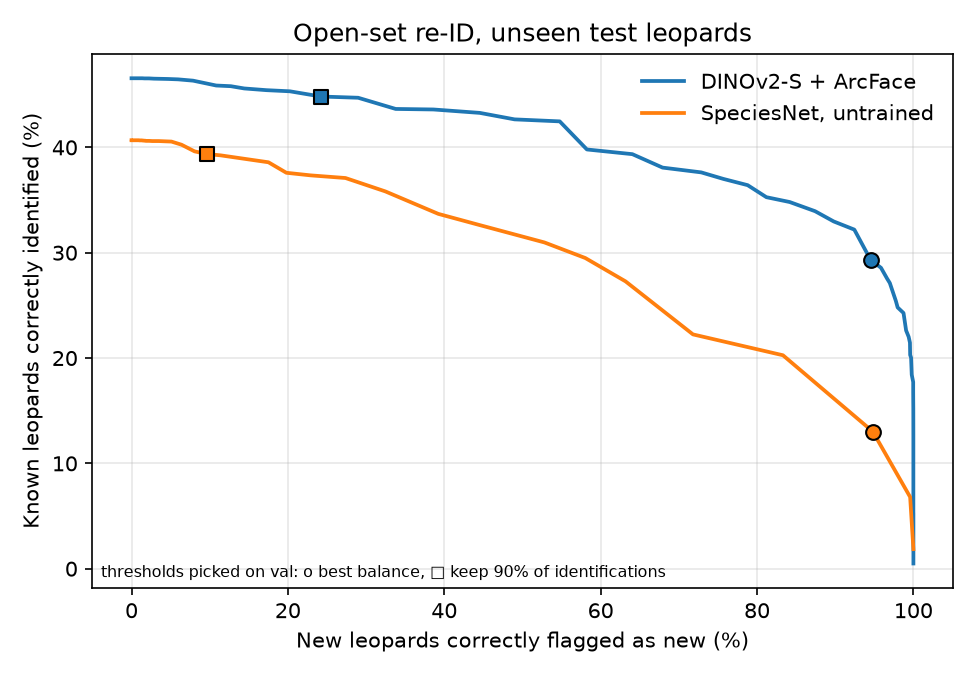
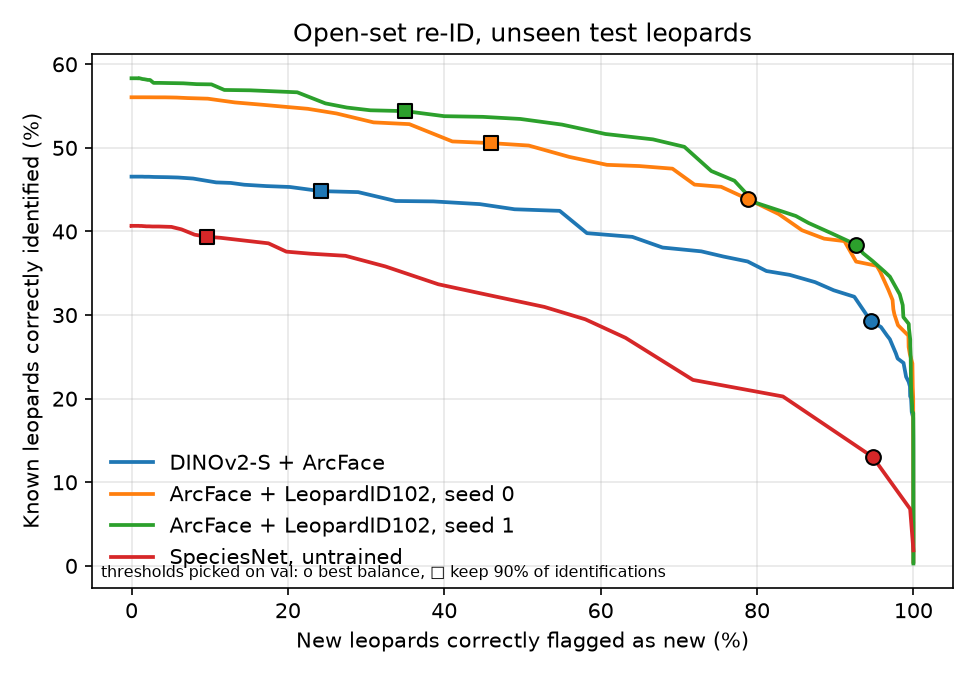
open-set check with the leopardid102-trained models
same 20 draws for every model. with the extra training leopards, known
leopards identified with no "new" option goes 46.6% -> 56.1/58.3% and
the whole trade-off curve moves up, but auroc known-vs-new barely moves
(0.778 -> 0.798/0.800): better ranking, not better "i don't know".
thresholds still land differently per seed.

diff --git a/scripts/15_open_set.py b/scripts/15_open_set.py
@@ -13,9 +13,10 @@ matched correctly and confidently. The threshold that best balances the two
 (ghats.reid.open_set_rates), and the strictest one that keeps 90% of the correct
 identifications, are picked on val and applied unchanged to test.
 
-Models: the ArcFace fine-tune from scripts/14_train_reid.py and, for comparison, the
-best untrained baseline (SpeciesNet features cached by 13_reid_baseline.py). Writes
-reports/phase3/open_set.{md,csv,png}.
+Models: the ArcFace fine-tunes from scripts/14_train_reid.py (the original, and the two
+seeds trained with LeopardID102 leopards added, where present) and, for comparison, the
+best untrained baseline (SpeciesNet features cached by 13_reid_baseline.py). All models
+see the same draws. Writes reports/phase3/open_set.{md,csv,png}.
 """
 
 from __future__ import annotations
@@ -36,6 +37,12 @@ from ghats.config import load_config
 from ghats.reid import l2_normalise, open_set_queries, open_set_rates
 
 KEEP = 0.9  # share of closed-set identifications the conservative threshold keeps
+MODELS = {  # label -> checkpoint; None = SpeciesNet features from the baseline cache
+    "DINOv2-S + ArcFace": "outputs/phase3/reid/best.pt",
+    "ArcFace + LeopardID102, seed 0": "outputs/phase3/reid_lp102_s0/best.pt",
+    "ArcFace + LeopardID102, seed 1": "outputs/phase3/reid_lp102_s1/best.pt",
+    "SpeciesNet, untrained": None,
+}
 
 
 def simulate(emb: np.ndarray, crops: pd.DataFrame, draws: int, seed: int) -> pd.DataFrame:
@@ -62,11 +69,11 @@ def auroc(queries: pd.DataFrame) -> float:
     return float(roc_auc_score(~queries["is_new"], queries["best_sim"]))
 
 
-def embeddings(name: str, crops: pd.DataFrame, cfg: dict, args) -> np.ndarray:
-    if name == "speciesnet":
+def embeddings(checkpoint: str | None, crops: pd.DataFrame, cfg: dict, args) -> np.ndarray:
+    if checkpoint is None:
         z = np.load(Path(args.baseline_cache) / "speciesnet.npz", allow_pickle=True)
         return l2_normalise(pd.DataFrame(z["x"], index=z["crop_id"]).loc[crops["crop_id"]].to_numpy())
-    cache = Path(args.model).with_name("embeddings.npz")
+    cache = Path(checkpoint).with_name("embeddings.npz")
     if cache.exists() and list(np.load(cache)["crop_id"]) == crops["crop_id"].tolist():
         return np.load(cache)["x"]
     import torch
@@ -74,7 +81,7 @@ def embeddings(name: str, crops: pd.DataFrame, cfg: dict, args) -> np.ndarray:
     from ghats.reid_model import embed, eval_loader, load_trained
 
     device = "cuda" if torch.cuda.is_available() else "cpu"
-    model = load_trained(Path(args.model), device)
+    model = load_trained(Path(checkpoint), device)
     out_dir = Path(cfg["crops"]["out"])
     paths = [out_dir / "images" / f"{c}.jpg" for c in crops["crop_id"]]
     emb = embed(model, eval_loader(paths, cfg["train"], model), device)
@@ -85,7 +92,6 @@ def embeddings(name: str, crops: pd.DataFrame, cfg: dict, args) -> np.ndarray:
 def main() -> int:
     ap = argparse.ArgumentParser(description=__doc__, formatter_class=argparse.RawDescriptionHelpFormatter)
     ap.add_argument("--config", default="configs/phase3.yaml")
-    ap.add_argument("--model", default="outputs/phase3/reid/best.pt")
     ap.add_argument("--baseline-cache", default="outputs/phase3/embeddings")
     ap.add_argument("--draws", type=int, default=20)
     ap.add_argument("--reports", default="reports/phase3")
@@ -97,8 +103,11 @@ def main() -> int:
     grid = np.round(np.arange(-0.2, 1.0, 0.01), 2)
 
     rows, curves, summary = [], {}, []
-    for model, label in [("arcface", "DINOv2-S + ArcFace"), ("speciesnet", "SpeciesNet, untrained")]:
-        emb = embeddings(model, crops, cfg, args)
+    for label, checkpoint in MODELS.items():
+        if checkpoint and not Path(checkpoint).exists():
+            print(f"missing {checkpoint}, skipping {label}")
+            continue
+        emb = embeddings(checkpoint, crops, cfg, args)
         q = {}
         for split in ("val", "test"):
             m = (crops["split"] == split).to_numpy()

diff --git a/README.md b/README.md
@@ -378,6 +378,28 @@ threshold tuned on one population doesn't transfer exactly. A deployment in the 
 would need to recalibrate on its own labelled photos, and in a reviewer-in-the-loop setup
 that calibration comes for free as reviewers confirm or reject matches.
 
+**With more training leopards.** I reran this on the same draws with the two models
+trained with LeopardID102 leopards added (see below). The plot above includes them.
+
+| Test, 107 unseen leopards | No "new" option | Strict threshold (known / new) | Best balance (known / new) | AUROC |
+|---|---|---|---|---|
+| ArcFace, original | 46.6% | 44.8% / 24.2% | 29.3% / 94.5% | 0.778 |
+| ArcFace + LeopardID102, seed 0 | 56.1% | 50.6% / 45.9% | 43.8% / 78.9% | 0.798 |
+| ArcFace + LeopardID102, seed 1 | 58.3% | 54.4% / 35.0% | 38.4% / 92.7% | 0.800 |
+
+Both new curves sit above the original everywhere. At any rate of flagging new
+leopards, more known leopards get identified: at about 80% flagged, roughly 43% instead
+of 36%. But the gain comes from somewhere specific. AUROC, which measures how well the
+best-match similarity alone separates known from new leopards, barely moves (0.778 to
+about 0.80, likely within noise). What improved is ranking: the right leopard comes
+first more often (46.6% to 56–58% with no "new" option), and that lifts the whole curve.
+The model is better at saying *which* leopard; it isn't much better at knowing when it
+doesn't know.
+
+The threshold problem is still there. The two seeds land on quite different operating
+points from the same rules (best balance: 43.8% / 78.9% vs 38.4% / 92.7%), so a fixed
+threshold remains fragile, and local recalibration from reviewer feedback still matters.
+
 **The travel-feasibility prior** needs camera locations and times, and Leopard ID 2022
 has neither (no timestamps, GPS or EXIF). It's tested on LeopardID102 below.
 

diff --git a/reports/phase3/open_set.md b/reports/phase3/open_set.md
@@ -8,12 +8,18 @@ Two ways to pick the threshold: the best balance of the two rates, or the strict
 |---|---|---|---|---|
 | DINOv2-S + ArcFace | best balance | 0.60 | 29.3% | 94.5% |
 | DINOv2-S + ArcFace | keep 90% of identifications | 0.42 | 44.8% | 24.2% |
+| ArcFace + LeopardID102, seed 0 | best balance | 0.57 | 43.8% | 78.9% |
+| ArcFace + LeopardID102, seed 0 | keep 90% of identifications | 0.49 | 50.6% | 45.9% |
+| ArcFace + LeopardID102, seed 1 | best balance | 0.62 | 38.4% | 92.7% |
+| ArcFace + LeopardID102, seed 1 | keep 90% of identifications | 0.48 | 54.4% | 35.0% |
 | SpeciesNet, untrained | best balance | 0.97 | 13.0% | 94.8% |
 | SpeciesNet, untrained | keep 90% of identifications | 0.82 | 39.4% | 9.6% |
 
 | Model | Known identified, no "new" option | AUROC known vs new |
 |---|---|---|
 | DINOv2-S + ArcFace | 46.6% | 0.778 |
+| ArcFace + LeopardID102, seed 0 | 56.1% | 0.798 |
+| ArcFace + LeopardID102, seed 1 | 58.3% | 0.800 |
 | SpeciesNet, untrained | 40.7% | 0.700 |
 
 ![open-set trade-off](open_set.png)
